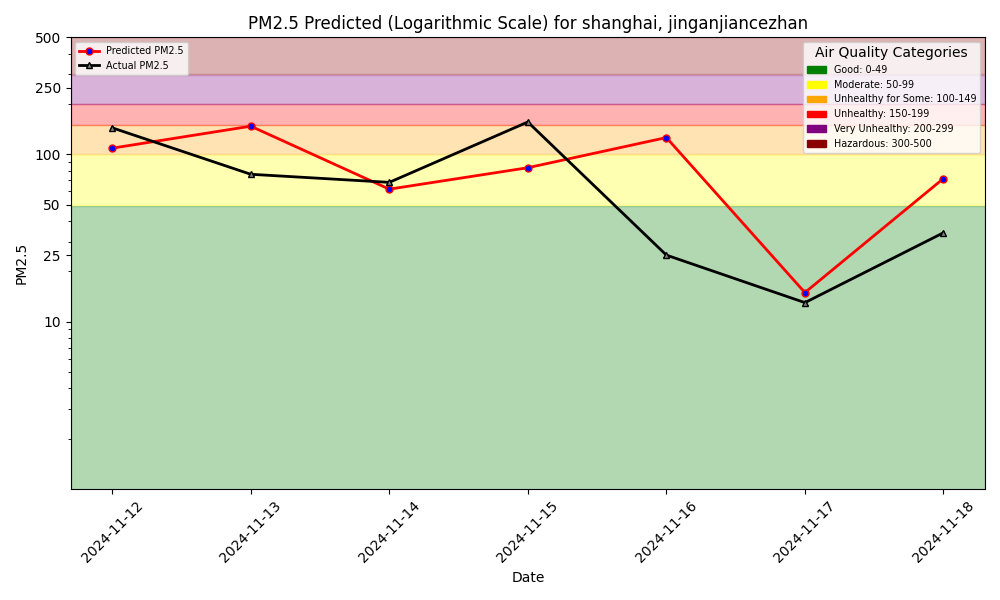
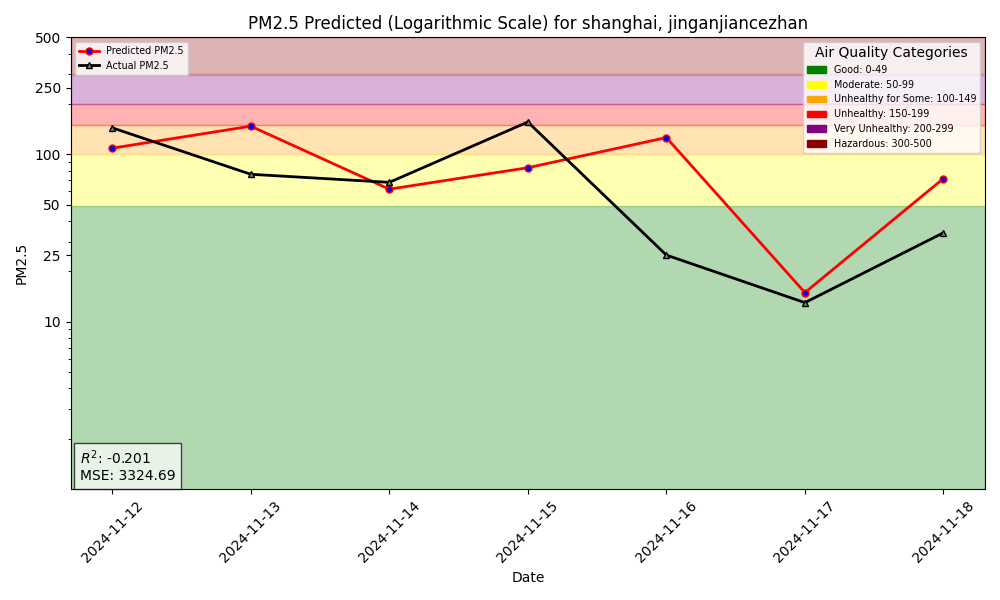
add r^2 and Mse at hindcast image

Changed region(s): [[0.062, 0.72, 0.186, 0.84]]

diff --git a/notebooks/ch03/functions/util.py b/notebooks/ch03/functions/util.py
@@ -15,6 +15,7 @@ from retry_requests import retry
 import hopsworks
 import hsfs
 from pathlib import Path
+from sklearn.metrics import r2_score, mean_squared_error
 
 def get_historical_weather(city, start_date,  end_date, latitude, longitude):
     # latitude, longitude = get_city_coordinates(city)
@@ -281,6 +282,15 @@ def plot_air_quality_forecast(city: str, street: str, df: pd.DataFrame, file_pat
         ax.plot(day, df['pm25'], label='Actual PM2.5', color='black', linewidth=2, marker='^', markersize=5, markerfacecolor='grey')
         legend2 = ax.legend(loc='upper left', fontsize='x-small')
         ax.add_artist(legend1)
+        
+        r2 = r2_score(df['pm25'], df['predicted_pm25'])
+        mse = mean_squared_error(df['pm25'], df['predicted_pm25'])
+
+        # Display metrics on the plot
+        text_x = 0.01
+        text_y = 0.02
+        ax.text(text_x, text_y, f"$R^2$: {r2:.3f}\nMSE: {mse:.2f}", transform=ax.transAxes, fontsize=10,
+                bbox=dict(facecolor='white', alpha=0.7, edgecolor='black'))
 
     # Ensure everything is laid out neatly
     plt.tight_layout()
